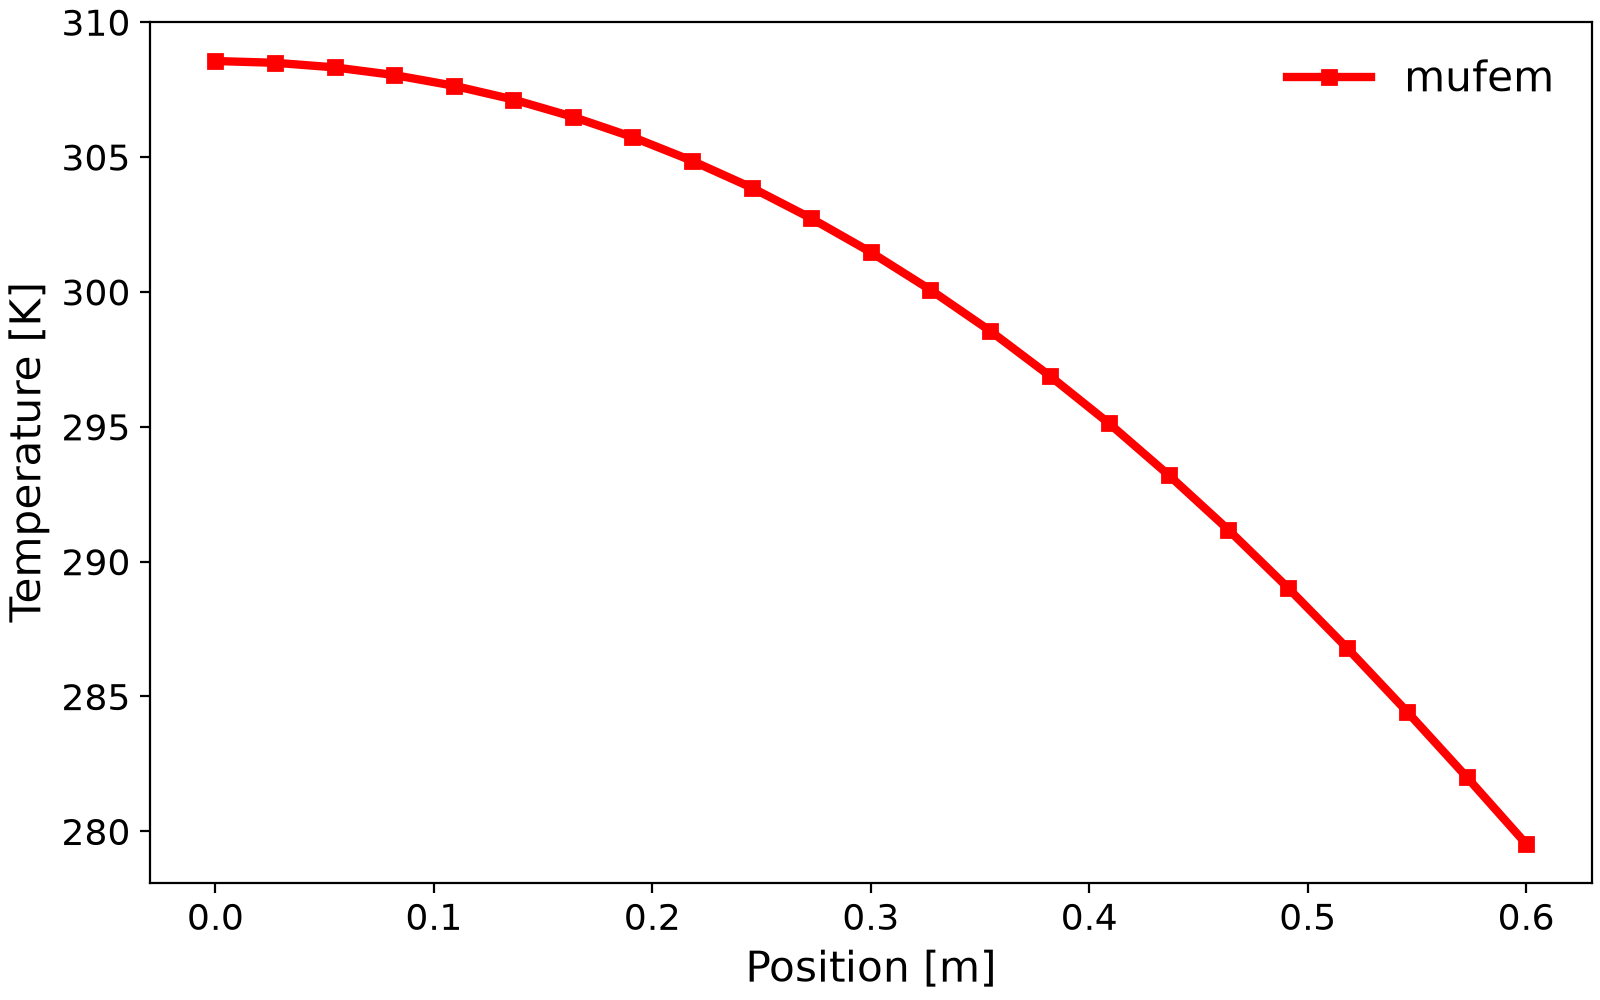
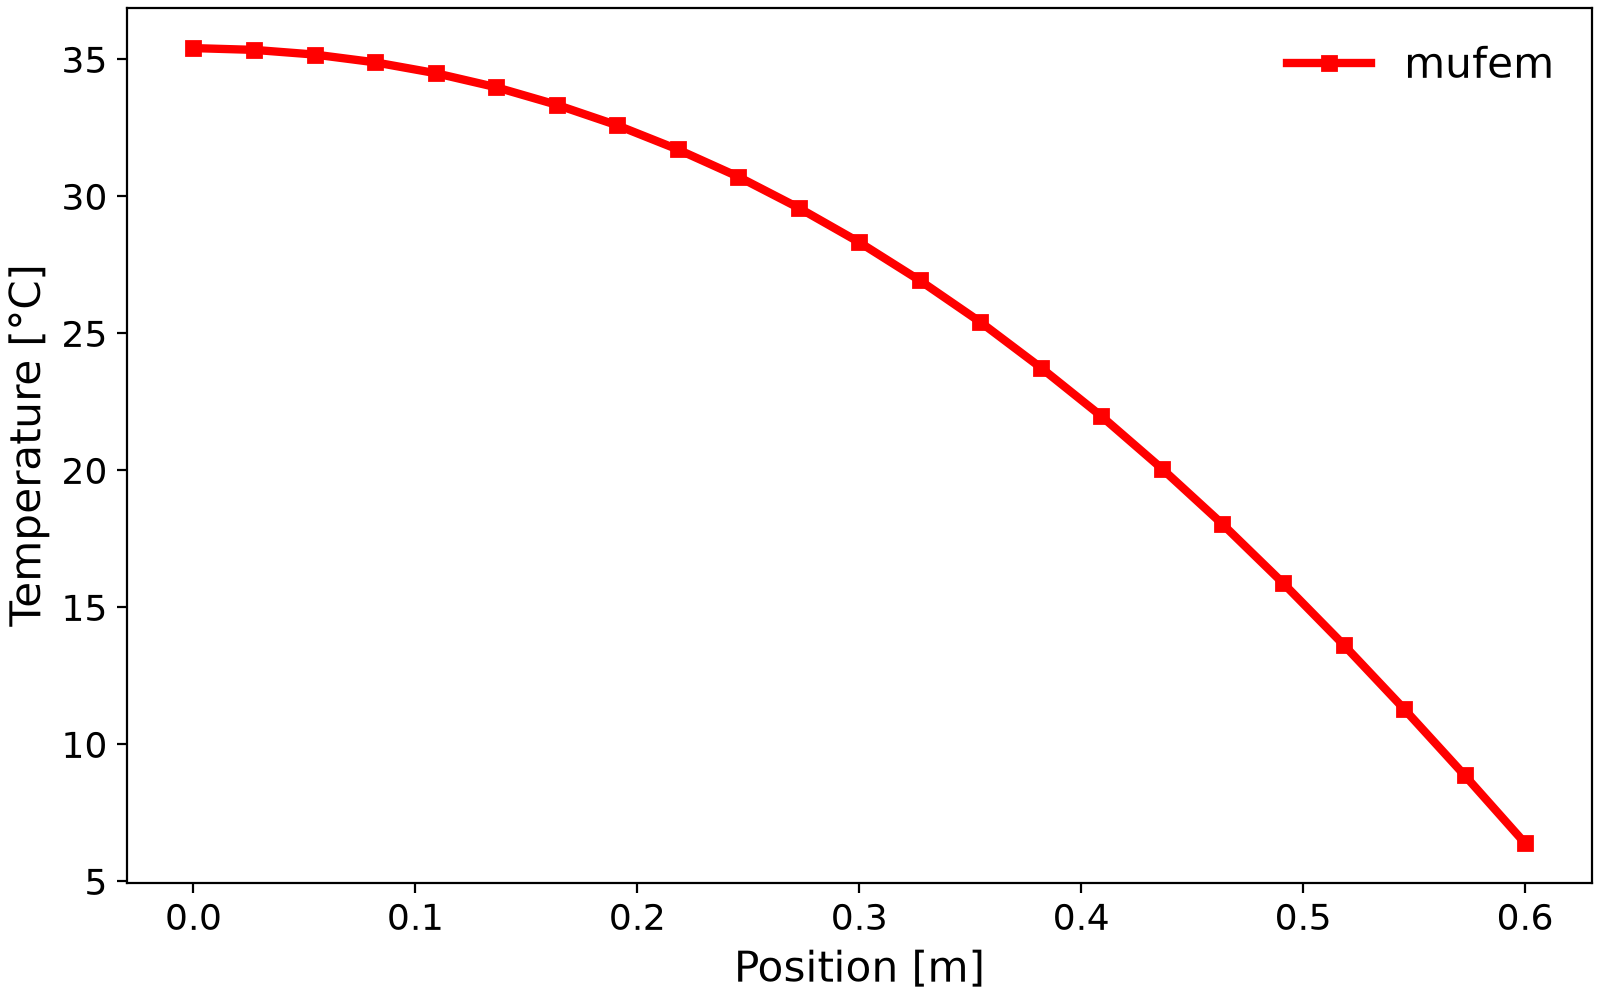
Fix content and style issues found in the README and case audit

diff --git a/Thermal/Cameron_1986_Heat_Transfer_With_Convection/case.py b/Thermal/Cameron_1986_Heat_Transfer_With_Convection/case.py
@@ -63,25 +63,25 @@ class Cameron1986(ValidationCase):
         model.add_material(material)
 
         # Boundary conditions ----------------------------------------------------------
-        bc_Adiabatic = AdiabaticBoundaryCondition(
+        bc_adiabatic = AdiabaticBoundaryCondition(
             name="Insulated",
             marker="Plate::Insulated" @ Bnd,
         )
 
-        bc_TAmbient = ConvectionBoundaryCondition(
+        bc_ambient = ConvectionBoundaryCondition(
             name="Natural Convection",
             marker="Plate::AmbientTemperature" @ Bnd,
             convection_efficiency=750.0,
             temperature_medium=273.15,
         )
 
-        bc_TFixed = TemperatureCondition(
+        bc_fixed = TemperatureCondition(
             name="Fixed Temperature",
             marker="Plate::FixedTemperature" @ Bnd,
             temperature=373.15,
         )
 
-        model.add_conditions([bc_TFixed, bc_TAmbient, bc_Adiabatic])
+        model.add_conditions([bc_fixed, bc_ambient, bc_adiabatic])
 
         return sim
 
@@ -105,7 +105,7 @@ class Cameron1986(ValidationCase):
             end=(0.6, 0.5, 0.005),
             number_points=23,
         )
-        self.temperature_profile = [(p.x, T) for p, T in profile.evaluate_all()]
+        self.temperature_profile = [(p.x, T - 273.15) for p, T in profile.evaluate_all()]
 
     def postprocess(self):
         if self.is_main():
@@ -113,7 +113,7 @@ class Cameron1986(ValidationCase):
                 values=self.temperature_profile,
                 style=PlotStyle.LINE_AND_POINTS,
                 xlabel="Position [m]",
-                ylabel="Temperature [K]",
+                ylabel="Temperature [°C]",
                 path=f"{self.results_path}/Temperature.png",
             )
 

diff --git a/Electromagnetics/Compumag-Team36-Induction-Heating-Device/case.py b/Electromagnetics/Compumag-Team36-Induction-Heating-Device/case.py
@@ -29,7 +29,7 @@ from mufem.thermal import (
 
 
 class Team36InductionHeating(ValidationCase):
-    name = "Compumag Team 36: Induction Heating Device"
+    name = "Compumag TEAM 36: Induction Heating Device"
     tags = {"long"}
 
     def build_geometry(self):
@@ -52,7 +52,7 @@ class Team36InductionHeating(ValidationCase):
         coil_radial_width = 0.02
         copper_thickness = 0.003
 
-        # 30-degree periodic sector of the axisymmetric device.
+        # 30-degree sector of the axisymmetric device, bounded by symmetry planes.
         cut = triangle_sector(1.0, 30, 1.0)
 
         # Billet: a rectangular cross-section revolved into the sector -------------------
@@ -77,7 +77,7 @@ class Team36InductionHeating(ValidationCase):
         billet.faces.Max(Y).name = "Billet::EndSurface"
 
         # Inductor: a hollow copper turn (outer minus inner), replicated axially ----------
-        half_offset = 0.2 / 19.0 / 2.0  # 20 turns over 0.2 m with 19 gaps
+        half_offset = 0.2 / 19.0 / 2.0  # 19 gaps share 1 m - 20 x 4 cm = 0.2 m
         r0, r1 = coil_internal_radius, coil_internal_radius + coil_radial_width
         y0, y1 = half_offset, half_offset + coil_axial_length
         t = copper_thickness
@@ -200,7 +200,7 @@ class Team36InductionHeating(ValidationCase):
                 f"Coil::{n}" @ mufem.Vol,
                 CoilTopologyOpen(f"Coil::{n}::In" @ mufem.Bnd, f"Coil::{n}::Out" @ mufem.Bnd),
                 CoilTypeStranded(1),
-                CoilExcitationCurrent(current=3500.0 * numpy.sqrt(2)),  # RMS
+                CoilExcitationCurrent(current=3500.0 * numpy.sqrt(2)),  # peak of 3500 A RMS
             )
             coil_model.add_coil_specification(coil)
 

diff --git a/Electromagnetics/Berger_2017_HTS_Cube/case.py b/Electromagnetics/Berger_2017_HTS_Cube/case.py
@@ -16,7 +16,7 @@ from mufem.electromagnetics.timedomainmagnetic import (
 
 
 class Berger2017HtsCube(ValidationCase):
-    name = "Berger (2017): High-Temperature Superconductor Cube"
+    name = "Berger 2017: High-Temperature Superconductor Cube"
     tags = {"moderate"}
 
     def build_geometry(self):
@@ -94,8 +94,8 @@ class Berger2017HtsCube(ValidationCase):
         # Materials --------------------------------------------------------------------
         air_material = TimeDomainMagneticGeneralMaterial(name="Air", marker="Air" @ Vol)
 
-        # n=25, Jc=2.5e6 A/m^2, Ec=1e-4 V/m are characteristic of commercial Bi-2223
-        # (1G HTS tape) at 77 K self-field, matching Berger 2017 §II.B.
+        # n=25, Jc=2.5e6 A/m^2, Ec=1e-4 V/m, close to measurements on cylindrical Bi-2223
+        # samples, Berger et al. (2017), §II.B.
         hts_material = SuperconductorMagneticMaterial(
             name="Bi-2223",
             marker="Cube" @ Vol,

diff --git a/Electromagnetics/Compumag-Team7-Asymmetrical-Conductor-with-a-Hole/case.py b/Electromagnetics/Compumag-Team7-Asymmetrical-Conductor-with-a-Hole/case.py
@@ -21,7 +21,7 @@ from mufem.electromagnetics.timeharmonicmagnetic import (
 
 
 class Team7AsymmetricalConductor(ValidationCase):
-    name = "Compumag Team 7: Asymmetrical Conductor with a Hole"
+    name = "Compumag TEAM 7: Asymmetrical Conductor with a Hole"
     tags = {"moderate"}
 
     # Solved in this order, so that the exported fields belong to 50 Hz.
@@ -213,7 +213,7 @@ class Team7AsymmetricalConductor(ValidationCase):
                     self.results_path / f"Bz_{name}_mufem.csv",
                     numpy.c_[x.real, b.real, b.imag],
                     delimiter=",",
-                    header="x [mm], Bz [mT]",
+                    header="x [mm], Re Bz [mT], Im Bz [mT]",
                 )
 
         # ParaView export (collective) ------------------------------------------------

diff --git a/Electromagnetics/Lubin_2015_Axial_Flux_Eddy_Current_Brake/case.py b/Electromagnetics/Lubin_2015_Axial_Flux_Eddy_Current_Brake/case.py
@@ -14,13 +14,14 @@ from mufem.motion import MeshMotionPartialRemeshing, RotatingMotion
 
 
 class Lubin2015EddyCurrentBrake(ValidationCase):
-    name = "Lubin 2015: Axial-Flux Eddy Current Brake"
+    name = "Lubin 2015: Axial-Flux Eddy-Current Brake"
     tags = {"eternal"}
 
     # 2 p = 10 sector magnets (grade N40) on the magnet-side back iron
     number_of_magnets = 10
 
-    # write fields and torque frames for every time step to vis/ (see create_animation.py)
+    # export the fields to VisualizationOutput/ and torque frames to vis/ for every time step
+    # (see create_animation.py)
     output_for_animation = False
 
     def build_geometry(self):

diff --git a/Electromagnetics/Montejo-Garai_1995_Circular_Cavity_Filter/case.py b/Electromagnetics/Montejo-Garai_1995_Circular_Cavity_Filter/case.py
@@ -214,7 +214,7 @@ class MontejoGarai1995CavityFilter(ValidationCase):
             return
 
         # |S21| in the passband against the measurement of Montejo-Garai and Zapata (1995).
-        # In the stopband the computed transmission lies 1-3 dB below the measurement, as
+        # In the stopband the computed transmission lies up to 3 dB below the measurement, as
         # does the finite element result of Liu et al. (2002).
         measured = numpy.loadtxt(
             self.dir_path / "data" / "Montejo-Garai_1995.csv", delimiter=",", comments="#"

diff --git a/Electromagnetics/Compumag-Team24-Locked-Rotor/case.py b/Electromagnetics/Compumag-Team24-Locked-Rotor/case.py
@@ -21,10 +21,11 @@ from mufem.electromagnetics.timedomainmagnetic import (
 
 
 class Team24LockedRotor(ValidationCase):
-    name = "Compumag Team 24: Locked Rotor"
+    name = "Compumag TEAM 24: Nonlinear Time-Transient Rotational Test Rig"
     tags = {"moderate"}
 
-    # write fields and plots for every time step to vis/ (see paraview_gif.py)
+    # export the fields to VisualizationOutput/ and the plots to vis/ for every time step
+    # (see paraview_gif.py)
     output_for_animation = False
 
     def build_geometry(self):

diff --git a/Electromagnetics/Stutzman_2012_Dipole_Antenna/case.py b/Electromagnetics/Stutzman_2012_Dipole_Antenna/case.py
@@ -204,7 +204,7 @@ class Stutzman2012DipoleAntenna(ValidationCase):
 
     def validate(self):
         # E-plane against the analytical pattern of a thin dipole, away from the nulls
-        # along the arms. The thick arms (radius L/20) lower the pattern towards the
+        # along the arms. The thick arms (radius L/20) lower the pattern toward the
         # arms, by about 6% at 30 and 150 deg.
         for theta_deg in [30, 60, 90, 120, 150]:
             i = numpy.argmin(numpy.abs(self.thetas - numpy.radians(theta_deg)))

diff --git a/Electromagnetics/Stutzman_2012_Dipole_Antenna/paraview_electric_field.py b/Electromagnetics/Stutzman_2012_Dipole_Antenna/paraview_electric_field.py
@@ -14,7 +14,7 @@ def create_scene(data_original, phase, screenshot_file):
     data.ResultArrayName = f"{field_name}"
     data.Function = f'"{field_name_real}" * cos({phase}) - "{field_name_imag}" * sin({phase})'
 
-    # Slice plane at z=0 ---------------------------------------------------------------
+    # Slice plane at x=0 ---------------------------------------------------------------
     data = pvs.Slice(Input=data)
     data.SliceType = "Plane"
     data.SliceType.Origin = (0, 0, 0)

diff --git a/Electromagnetics/David_2019_Nonuniform_Charge_Density/case.py b/Electromagnetics/David_2019_Nonuniform_Charge_Density/case.py
@@ -77,7 +77,7 @@ class David2019ChargeDensity(ValidationCase):
         return sim
 
     def electric_field_theory(self, r):
-        """Radial electric field of the Gaussian charge distribution, Eq. (6)."""
+        """Radial electric field of the Gaussian charge distribution from Gauss's law."""
         Q, a = self.charge, self.charge_radius
 
         eps0 = 8.8541878188e-12  # [F/m] vacuum permittivity

diff --git a/Electromagnetics/Compumag-Team1b-Felix-Cylinder/create_scene.py b/Electromagnetics/Compumag-Team1b-Felix-Cylinder/create_scene.py
@@ -61,7 +61,7 @@ scalar_bar = pvs.GetScalarBar(ctf)
 scalar_bar.Orientation = "Horizontal"
 scalar_bar.WindowLocation = "Any Location"
 
-scalar_bar.Title = "Electric Current Density [J/m²]"
+scalar_bar.Title = "Electric Current Density [A/m²]"
 scalar_bar.ComponentTitle = ""
 scalar_bar.UseCustomLabels = True
 scalar_bar.CustomLabels = [0, 1.0e6, 2.0e6, 3.0e6]

diff --git a/Electromagnetics/Compumag-Team20-3D-Static-Force-Problem/data/plot_bh_table.py b/Electromagnetics/Compumag-Team20-3D-Static-Force-Problem/data/plot_bh_table.py
@@ -13,7 +13,7 @@ fig, ax = plt.subplots()
 
 ax.plot(H, B, "o-", linewidth=2.5, markersize=5.0)
 
-ax.set_xlabel("Magnetic Field Strength $\\left[ \\frac{\\rm{A}}{\\rm{m}^2} \\right]$")
+ax.set_xlabel("Magnetic Field Strength $\\left[ \\frac{\\rm{A}}{\\rm{m}} \\right]$")
 ax.set_ylabel("Magnetic Flux Density [T]")
 
 ax.set_xlim((0, 20000))
